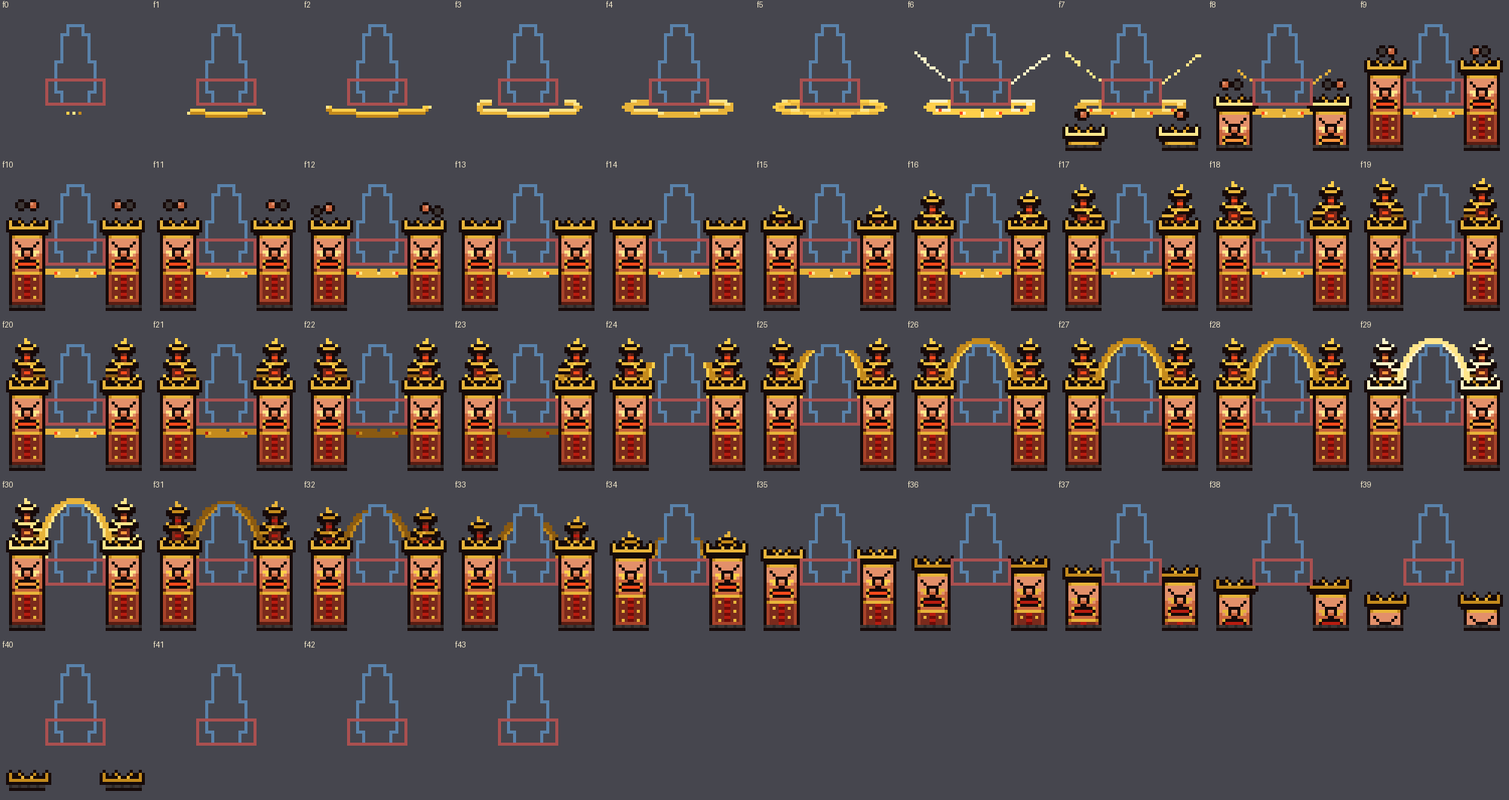
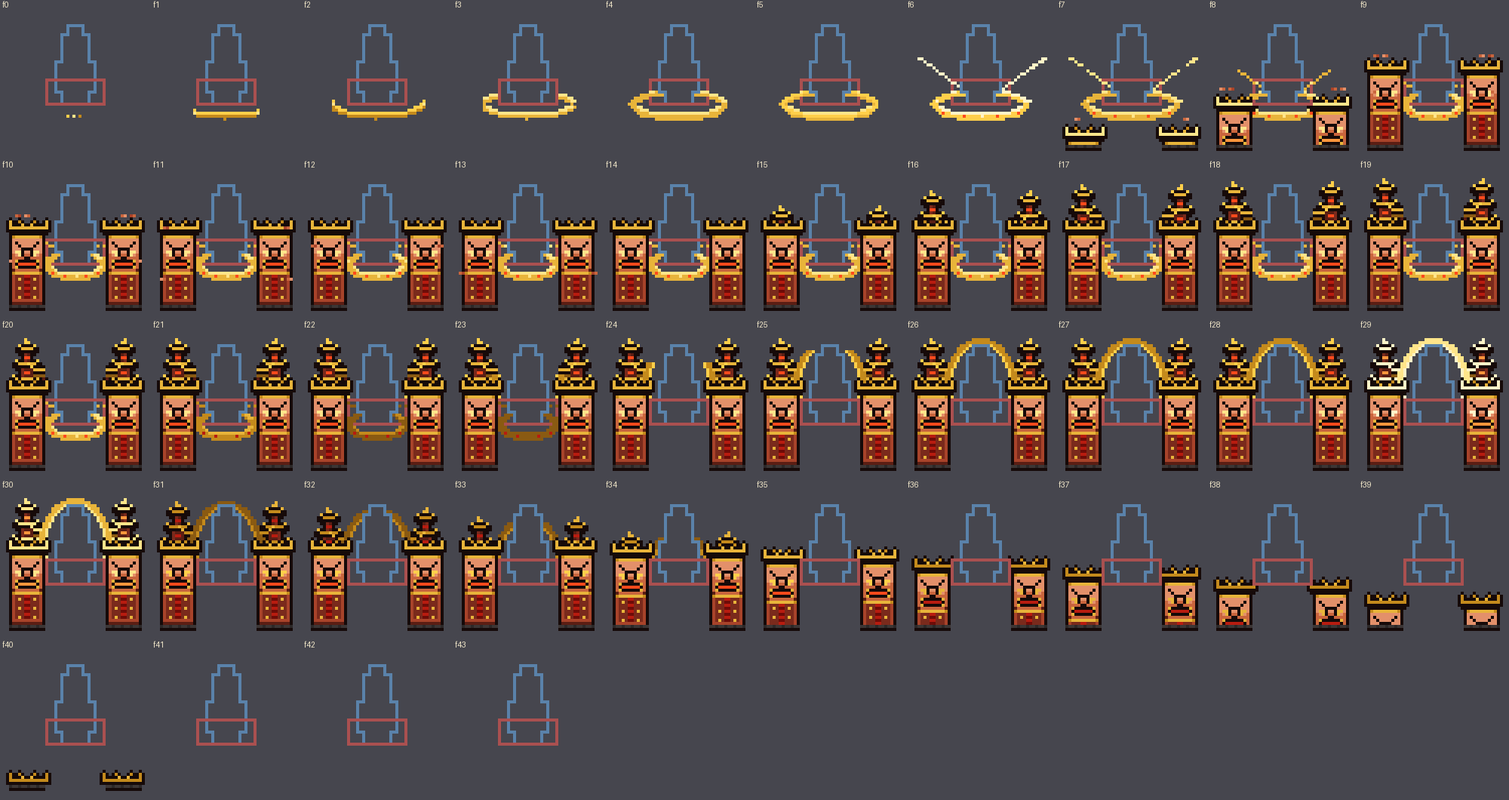
art: Subaku Palace gates v6: sigil as a real ground ring, falling sandstone shards, TIMING.md v5
QA r3 on eb17ebc0:
- Sigil: a bevelled ground ellipse 30 x 8 px round the caster's feet (0-0.4 h above the hex bottom),
  hidden only behind the legs; drawn in to 18 x 8 by the gates' heaves so it stays a whole ring
  between them through tick 20; cools 21-23, out from 24.
- Chips: 2 x 1 px sandstone shards, no outline, knocked off each gate top and falling.
- JSON cites TIMING.md v5 (ring 1 on 7, held beat 29-30 unchanged).
- The sigil ring now crosses the lower neighbour's meter rows (ticks 4-23, up to 16.1 %); gates,
  palace and shards stay gated at 0 % on them. Reported in sbk_gates_v6.json, README, design doc.
v5 export removed; filename bumped to v6. artpreflight: 0 errors, 0 warnings. Live-game requests: 0.

Claude-Session: https://claude.ai/code/session_01Xibngekrh25gkZxxmbSp7p

diff --git a/art/subaku_palace/gates/build_gates.py b/art/subaku_palace/gates/build_gates.py
@@ -3,18 +3,18 @@
 
     python3 art/subaku_palace/gates/build_gates.py [--out DIR] [--sheet PNG]
 
-SHIPPING BUILD. Target geometry (art/subaku_palace/TIMING.md v4, director 2026-11-05): effect clips 2.5 hex heights
+SHIPPING BUILD. Target geometry (art/subaku_palace/TIMING.md v5, director 2026-11-05): effect clips 2.5 hex heights
 square (the ratio-1 change 338126cb is to be reverted upstream), players drawn as LPC character avatars. The ratio-1
 note build is build_gates_ratio1.py.
 
-One asset, the appear on the SELF tag (increasedamagegiven): anim_sbk_gates_rise_v5, 44 frames x 50 ms. No static
+One asset, the appear on the SELF tag (increasedamagegiven): anim_sbk_gates_rise_v6, 44 frames x 50 ms. No static
 loop, no dais (director: the sigil is symbolic and fades within the cast).
 
-- 0-5    the sigil burns into the ground at the caster's feet: a spark, two arcs sweeping round to close a flat
-         bevelled ring (0.05-0.25 h above the hex bottom), then the inner ring and cracks, and a swell.
+- 0-5    the sigil burns into the ground round the caster's feet: a spark, two arcs sweeping round to close a
+         bevelled ring 30 x 8 px (0-0.4 h above the hex bottom), then ember cracks and a swell.
 - 6      its bands flash white-hot to the hex's edge midpoints and run past them: the energy leaves the hex.
-- 7-9    ring 1 ignites: two red sandstone oni gates tear up in three heaves (25 %, 60 %, 100 %), a burst of stone
-         chips off each top. Flared roofs with upturned eaves, a horn-crested lintel, a two-tone snarling face
+- 7-9    ring 1 ignites: two red sandstone oni gates tear up in three heaves (25 %, 60 %, 100 %), 2 px sandstone
+         shards knocked off each top and falling; the ring draws in to 18 x 8 px to stay whole between them. Flared roofs with upturned eaves, a horn-crested lintel, a two-tone snarling face
          (10 x 11) with burning eyes.
 - 14-20  as the bloom spreads, the palace rises behind them: two three-tier pagoda towers and roof wings.
 - 21-23  the sigil cools to demon gold; out from 24.
@@ -29,7 +29,8 @@ centred 0.825 h above the hex bottom; a typical body, mapped by LPC rows, spans 
 (headgear) to 31 (feet at y 30.3). Keep-clear zones, gated at 0 % on every frame:
 - ENVELOPE  the caster's body: nothing is drawn over it (the sigil and palace pass behind it).
 - METERS    the lower neighbour's HP/SP/CP rows, which fall inside this clip at 0.2-0.6 h above this hex's bottom
-            (x 15-34, y 23-31).
+            (x 15-34, y 23-31), for everything but the sigil. The sigil ring (QA r3) is masked only by ENVELOPE;
+            its cover of these rows is reported in the JSON.
 The caster's own meters (x 15-34, y 3-11) are reported, not gated: the moon-gate arch's top crosses them on ticks
 24-33 (director, 2026-11-05: keep the arch). They are ALWAYS visible to the casting player: combat.ts:420 passes the
 viewer's own userId as selectedId, and combatActors.ts:516-520 shows a fighter's meters when it is selected or
@@ -54,9 +55,9 @@ SCALE = 3
 MS = 50
 MAX_BYTES = 460800
 SAFE_EDGE = 2
-VER = "v5"
+VER = "v6"
 
-# ------------------------------------------------------------------------------------------------ timing (TIMING.md v4)
+# ------------------------------------------------------------------------------------------------ timing (TIMING.md v5)
 RING1 = 7               # ring 1 ignites; the gates heave up 7-9
 SEAL_PEAK = 29          # the floor's final pulse peaks (white-hot channels)
 LEN = 44
@@ -71,13 +72,13 @@ PALACE_SINK = 6         # 31-36
 GATE_SINK_AT = 33
 GATE_SINK = 9           # 33-41; 42-43 empty
 
-# ------------------------------------------------------------------------------------------------ palette (TIMING.md v4)
+# ------------------------------------------------------------------------------------------------ palette (TIMING.md v5)
 SHADOW = (22, 10, 9)
 SS_D, SS_M, SS, SS_L, SS_HI = (90, 30, 20), (122, 42, 28), (168, 67, 42), (201, 101, 61), (227, 144, 106)
 G_DEEP, G_MID, G_BRI = (138, 90, 18), (196, 138, 28), (232, 180, 58)
 B1, B2, WHITE = (255, 207, 74), (255, 229, 138), (255, 244, 200)
 E0, E1, E2, E3 = (110, 12, 8), (184, 28, 16), (255, 74, 28), (255, 150, 60)
-ST, ST_L = (44, 40, 40), (60, 54, 53)                     # basalt (TIMING.md v4: #2c2828, #3c3635)
+ST, ST_L = (44, 40, 40), (60, 54, 53)                     # basalt (TIMING.md v5: #2c2828, #3c3635)
 PALETTE = {SHADOW, SS_D, SS_M, SS, SS_L, SS_HI, G_DEEP, G_MID, G_BRI, B1, B2, WHITE, E0, E1, E2, E3, ST, ST_L}
 
 CX, CY = 24.5, 25.0
@@ -239,25 +240,38 @@ def check(frames):
         raise SystemExit(f"white-hot on frames {hot}, allowed only {SPOKES} and {HOLD[0]}")
     if any(f.getchannel("A").getbbox() for f in frames[-2:]):
         raise SystemExit("the last two frames must be empty")
-    for name, m in (("the caster's LPC envelope", ENV), ("the lower neighbour's meters", METERS)):
-        c = coverage(frames, m)
-        if max(c) > 0:
-            raise SystemExit(f"{name} is {max(c):.1%} covered on frame {c.index(max(c))}")
+    c = coverage(frames, ENV)
+    if max(c) > 0:
+        raise SystemExit(f"the caster's LPC envelope is {max(c):.1%} covered on frame {c.index(max(c))}")
+    c = coverage(rise(with_sigil=False), METERS)                # gates, palace, chips: never on the lower meters
+    if max(c) > 0:
+        raise SystemExit(f"the lower neighbour's meters are {max(c):.1%} covered on frame {c.index(max(c))}")
 
 
 # ------------------------------------------------------------------------------------------------ the sigil
-# A flat ring burned into the ground at the caster's feet: 0.05-0.25 h above the hex bottom (y 30-34). Its back half
-# passes behind the legs and under the lower neighbour's meter rows (both keep-clear), so what shows is the front arc
-# below the feet and the two flanks.
-SIG_C = (CX, 32.0)
-SIG_RX, SIG_RY = 17.0, 2.2
+# A ring burned into the ground round the caster's feet, 30 x 8 px (x 10-39, y 27-35; 0-0.4 h above the hex bottom),
+# drawn in to 18 x 8 (x 16-33) by the gates' heaves so it stays whole between them.
+# Only the stretch of its back arc behind the legs is hidden (the LPC envelope). Once the gates stand, their slabs
+# cover the ring's two ends, so it reads as a ring between them. QA 2026-11-06 (r3): the sigil may pass under the
+# lower neighbour's meter rows; everything else stays gated off them (reported in the JSON).
+SIG_C = (CX, 31.0)
+SIG_RX, SIG_RY = 15.0, 4.0
+SIG_RX_TIGHT = 9.0                   # from tick 9 the ring has drawn in between the standing gates (x 16-33)
+
+
+def sig_rx(i):
+    """30 px wide while it builds (0-7), drawn in by the gates' heaves (8: 12 px half-width, 9 on: 9)."""
+    return SIG_RX if i <= RING1 else (12.0 if i == RING1 + 1 else SIG_RX_TIGHT)
+
+
+_RX = [SIG_RX]                       # the half-width for the frame being drawn (set in sigil())
 SIG_OUT = SIG_COOL_AT + 3            # gone from tick 24: the sigil fades within the cast
 SPOKE_EDGES = [(10, 30), (40, 30), (25, 35), (10, 20), (40, 20)]   # the top midpoint lies behind the head
 
 
 def ell(r, deg):
     a = math.radians(deg)
-    return SIG_C[0] + SIG_RX * r * math.cos(a), SIG_C[1] + SIG_RY * r * math.sin(a)
+    return SIG_C[0] + _RX[0] * r * math.cos(a), SIG_C[1] + SIG_RY * r * math.sin(a)
 
 
 def sigil_cols(i):
@@ -272,7 +286,7 @@ def sigil_cols(i):
 
 def spoke_pts(edge, start, end, n=10):
     ex, ey = edge
-    sx, sy = ell(1.0, math.degrees(math.atan2((ey - SIG_C[1]) / SIG_RY, (ex - SIG_C[0]) / SIG_RX)))
+    sx, sy = ell(1.0, math.degrees(math.atan2((ey - SIG_C[1]) / SIG_RY, (ex - SIG_C[0]) / _RX[0])))
     return [(sx + (ex - sx) * (start + (end - start) * s / n), sy + (ey - sy) * (start + (end - start) * s / n))
             for s in range(n + 1)]
 
@@ -283,6 +297,7 @@ def sigil(i):
     white-hot out to the hex's edge midpoints and past them. Then a steady ring with pulses running out along the
     bands, white-hot on the seal peak, cooling 22-24, out at 25."""
     f = frame()
+    _RX[0] = sig_rx(i)
     cols = sigil_cols(i)
     if cols is None:
         return f
@@ -290,7 +305,7 @@ def sigil(i):
     if i == 0:
         for dx, c in ((0, B2), (-1, B2), (1, B1), (-2, B1), (2, G_MID)):
             px(f, SIG_C[0] + dx, SIG_C[1] + SIG_RY, c)
-        return clear_mask(f, KEEP)
+        return clear_mask(f, ENV)
     sweep = 180 * clamp01(i / 4)                        # degrees each way from the front (90 deg = front centre)
     for d in range(0, 361, 2):
         off = min(abs(d - 90), 360 - abs(d - 90))
@@ -300,19 +315,16 @@ def sigil(i):
         px(f, x, y - 0.5, top)
         px(f, x, y + 0.5, body)
         if i >= 4:                                      # the band thickens outward as it closes
-            px(f, x + (1 if math.cos(math.radians(d)) > 0.3 else -1 if math.cos(math.radians(d)) < -0.3 else 0),
-               y, body)
+            ox, oy = math.cos(math.radians(d)), math.sin(math.radians(d))
+            px(f, x + (1 if ox > 0.5 else -1 if ox < -0.5 else 0), y + (1 if oy > 0.5 else 0), body)
     if i in (1, 2, 3):                                  # the arcs' heads
         for d in (90 - sweep, 90 + sweep):
             x, y = ell(1.0, d)
             px(f, x, y, B2)
-    if i >= 5:                                          # the inner ring and the ember cracks between the rings
-        for d in range(0, 360, 6):
-            x, y = ell(0.62, d)
-            px(f, x, y, body)
-        for d in (20, 160, 60, 120):
-            x, y = ell(0.82, d)
-            px(f, x, y, E2 if i < SIG_COOL_AT else E1)
+    if i >= 5:                                          # ember cracks in the band's front
+        for d in (35, 145, 70, 110):
+            x, y = ell(1.0, d)
+            px(f, x, y + 0.5, E2 if i < SIG_COOL_AT else E1)
     if i == 5:                                          # the swell before the release
         for d in range(0, 360, 4):
             x, y = ell(1.06, d)
@@ -331,7 +343,7 @@ def sigil(i):
             pts = spoke_pts(e, 0.0, 1.0)
             x, y = pts[((i - SPOKES) * 2) % len(pts)]
             px(f, x, y, B2)
-    return clear_mask(f, KEEP)
+    return clear_mask(f, ENV)
 
 
 # ------------------------------------------------------------------------------------------------ the gates
@@ -431,31 +443,29 @@ def torn_ground(i):
 
 
 def chips(i):
-    """Stone chips burst off each gate's top as it heaves up (7, 8, 9): up and back down within 4 ticks, in the open
-    air above the gate (the gate fills the strip between the frame margin and the caster)."""
+    """Sandstone shards (2 x 1 px, no outline) knocked off each gate's top as it heaves up (7, 8, 9): a short hop,
+    then they fall past the gate's flank within 4 ticks."""
     f = frame()
     rnd = random.Random(3)
     for k in range(6):
         born = k % 3
-        vx = rnd.uniform(-0.9, 0.9)                     # drawn before any skip: each chip keeps its own path
-        vy = rnd.uniform(-3.4, -2.6)
-        x0 = rnd.uniform(5, 11)
+        vx = rnd.uniform(-0.8, -0.2)                    # outward, drawn before any skip: each shard keeps its path
+        vy = rnd.uniform(-1.6, -0.8)
+        x0 = rnd.uniform(4, 9)
         tt = i - RING1 - born
-        if not 0 <= tt < 4:
+        if not 0 <= tt < 5:
             continue
         top = GATE_BASE - GH * RISE_STAGES[born]
         x = x0 + vx * tt
-        y = top - 4 + vy * tt + 0.9 * tt * tt
-        now_top = GATE_BASE - GH * gate_up(i)           # stay above the gate as it keeps rising
-        if not (SAFE_EDGE + 1 <= x <= 15 and SAFE_EDGE + 1 <= y <= now_top - 3):
+        y = top - 2 + vy * tt + 1.4 * tt * tt
+        now_top = GATE_BASE - GH * gate_up(i)
+        if x < SAFE_EDGE or y < SAFE_EDGE or y > GATE_BASE - 1:
             continue
-        n = frame()
-        c = SS_L if k % 2 else ST_L
-        for dx, dy in ((0, 0), (1, 0), (0, 1), (1, 1)):
-            px(n, x + dx, y + dy, c)
-        px(n, x, y, SS_HI if k % 2 else ST_L)
-        outline_alpha(n)
-        f.alpha_composite(n)
+        if y >= now_top - 1 and x >= GATE_X + 1:        # in front of the gate's face: skip (it reads as a hole)
+            continue
+        c1, c2 = (SS_HI, SS_L) if k % 2 else (SS_L, SS)
+        px(f, x, y, c1)
+        px(f, x + 1, y, c2)
     return clear_mask(mirrored(f), KEEP)
 
 
@@ -552,16 +562,17 @@ def palace_layer(i):
 
 
 # ------------------------------------------------------------------------------------------------ assets
-def rise():
+def rise(with_sigil=True):
     fr = []
     for i in range(LEN):
         f = frame()
-        f.alpha_composite(sigil(i))
+        if with_sigil:
+            f.alpha_composite(sigil(i))
         f.alpha_composite(palace_layer(i))
         f.alpha_composite(torn_ground(i))
         f.alpha_composite(gates_layer(i))
         f.alpha_composite(chips(i))
-        fr.append(clear_mask(f, KEEP))
+        fr.append(clear_mask(f, ENV) if with_sigil else clear_mask(f, KEEP))
     return fr
 
 
@@ -570,6 +581,7 @@ def export(out_dir, sheet=None):
     r = rise()
     check(r)
     own = coverage(r, own_meters_mask())
+    lower = coverage(r, METERS)                                 # the sigil alone (QA r3)
     name = f"anim_sbk_gates_rise_{VER}.webp"
     p = os.path.join(out_dir, name)
     strip(r).save(p, lossless=True, quality=100, method=6)
@@ -579,13 +591,16 @@ def export(out_dir, sheet=None):
            "bytes": size,
            "slot": "appearAnimation on the SELF increasedamagegiven effect; no staticAnimation, no staticAssetPath",
            "geometry": "clip 2.5 hex heights (EFFECT_ANIMATION_HEX_RATIO 2.5); caster an LPC character avatar",
-           "lpc_envelope_cover_max": 0.0, "lower_neighbour_meters_cover_max": 0.0,
+           "lpc_envelope_cover_max": 0.0,
+           "lower_neighbour_meters_cover_max_sigil_only": max(lower),
+           "lower_neighbour_meters_cover_frames": [k for k, v in enumerate(lower) if v],
            "own_meters_cover_max": max(own), "own_meters_cover_frames": [k for k, v in enumerate(own) if v]}
     with open(os.path.join(out_dir, f"sbk_gates_{VER}.json"), "w") as fh:
-        json.dump({"source": "art/subaku_palace/gates/build_gates.py", "timing": "art/subaku_palace/TIMING.md v4",
+        json.dump({"source": "art/subaku_palace/gates/build_gates.py", "timing": "art/subaku_palace/TIMING.md v5",
                    "ring1": RING1, "seal_peak": SEAL_PEAK, "assets": [row]}, fh, indent=1)
         fh.write("\n")
-    print(row["file"], len(r), size, "own meters cover max", max(own))
+    print(row["file"], len(r), size, "own meters cover max", max(own), "lower meters (sigil) max", max(lower),
+          [k for k, v in enumerate(lower) if v])
     if sheet:
         raw_sheet(r, sheet)
 

diff --git a/art/subaku_palace/preview.py b/art/subaku_palace/preview.py
@@ -148,7 +148,7 @@ def main():
                 waves.append((c, fr))
     domain = cells_in(4, CASTER)
     # the centre half (gates agent, art/subaku_palace/gates): all on the SELF increasedamagegiven record
-    gname = os.environ.get('SBK_GATES_STRIP', 'anim_sbk_gates_rise_v5.webp' if BD.RATIO > 1.5 else 'anim_sbk_gates_rise_v3.webp')
+    gname = os.environ.get('SBK_GATES_STRIP', 'anim_sbk_gates_rise_v6.webp' if BD.RATIO > 1.5 else 'anim_sbk_gates_rise_v3.webp')
     gates = load_clip(gname, GATES) if '--no-gates' not in ARGS else None
     # director 2026-11-05: no lingering buff animation and no dais (the sigil is symbolic and fades after round one)
     master = load_clip('anim_sbk_master_loop_v2.webp', GATES) if '--master' in ARGS else None

diff --git a/art/subaku_palace/gates/README.md b/art/subaku_palace/gates/README.md
@@ -2,29 +2,29 @@
 
 Jutsu: Subaku Palace `jELEiw5W3N4m2R3oJm3Pk` (player EVENT, AOE_SPIRAL_SHOOT, range 4). SELF +30% damage given for
 2 rounds; ground: enemies -15% damage given for 3 rounds. The domain floor is the other half (`art/subaku_palace/`,
-whose `TIMING.md` v4 owns the shared clock, palette and target geometry). Design doc:
+whose `TIMING.md` v5 owns the shared clock, palette and target geometry). Design doc:
 `docs/design/SUBAKU_PALACE_ANIMATION.md`. Live-game requests: 0. No jutsu mechanics changed.
 
 ## What ships
 
 | File | Geometry | Frames x ms | Bytes | Build |
 |---|---|---|---|---|
-| `exports/anim_sbk_gates_rise_v5.webp` | **shipping**: clip 2.5 hex heights, players as LPC character avatars (TIMING.md v4) | 44 x 50 | 3,858 | `build_gates.py` |
+| `exports/anim_sbk_gates_rise_v6.webp` | **shipping**: clip 2.5 hex heights, players as LPC character avatars (TIMING.md v5) | 44 x 50 | 4,304 | `build_gates.py` |
 | `exports/anim_sbk_gates_rise_v3.webp` | note only: clip 1 hex height (338126cb, which the director expects to be reverted) | 38 x 50 | 3,930 | `build_gates_ratio1.py` |
 
 Slot: `appearAnimation` on the existing SELF `increasedamagegiven` effect. `staticAnimation` and `staticAssetPath`
 stay empty. Director, 2026-11-05: the sigil is symbolic and fades within the cast; there is no dais and no buff loop.
 
-Superseded and deleted (in git history): v2, gated against the old portrait disc (012a7890), and v4, before the
-QA round on the sigil and the slow bloom (81f4bd93). Each change takes a new filename so no cached copy is served.
+Superseded and deleted (in git history): v2, gated against the old portrait disc (012a7890); v4, before the
+QA round on the sigil and the slow bloom (81f4bd93); v5, the flat-plank sigil and dark chips (eb17ebc0). Each change takes a new filename so no cached copy is served.
 
-## The beat (TIMING.md v4: ring 1 ignites on 7, the floor's final pulse peaks on 29)
+## The beat (TIMING.md v5: ring 1 ignites on 7, the floor's final pulse peaks on 29)
 
 | Ticks | Centre |
 |---|---|
-| 0-5 | The sigil burns into the ground at the caster's feet: a spark in front of them, two arcs sweeping round to close a flat bevelled ring 0.05-0.25 h above the hex bottom (its back half passes behind the legs), then the inner ring and ember cracks, and a swell. |
+| 0-5 | The sigil burns into the ground round the caster's feet: a spark in front of them, two arcs sweeping round to close a bevelled ring 30 x 8 px (0-0.4 h above the hex bottom; only the stretch of its back arc behind the legs is hidden), then ember cracks and a swell. |
 | 6 | The bands flash white-hot to the hex's edge midpoints and run past them. |
-| 7-9 | Ring 1 ignites. Two red sandstone oni gates tear up on either side of the caster in three heaves (25 %, 60 %, 100 %), a burst of stone chips off each top. Flared roofs with upturned eaves, a horn-crested lintel, a two-tone snarling face (10 x 11 px: light plate, dark V brows and maw, bright eyes, gold fangs, ember throat). |
+| 7-9 | Ring 1 ignites. Two red sandstone oni gates tear up on either side of the caster in three heaves (25 %, 60 %, 100 %), 2 px sandstone shards knocked off each top and falling. The ring draws in to 18 x 8 px (8-9), so it stays whole between the standing gates through tick 20. Flared roofs with upturned eaves, a horn-crested lintel, a two-tone snarling face (10 x 11 px: light plate, dark V brows and maw, bright eyes, gold fangs, ember throat). |
 | 14-20 | As the bloom spreads, the palace rises behind them: two three-tier pagoda towers. |
 | 21-23 | The sigil cools to demon gold; it is out from 24 (director: it fades within the cast). |
 | 22-26 | The solid two-tone demon-gold moon-gate arch traces up round the caster as the bloom reaches the rim. |
@@ -42,13 +42,17 @@ Gated at 0% on every frame (`build_gates.py` exits otherwise):
 - **The caster's LPC envelope:** crown x 22-27 y 5-7, head x 20-29 y 8-17, torso and arms x 18-31 y 17-27, legs x 20-29
   y 27-31. It is the union of real LPC rows and the QA harness's LPC stand-in. The sigil's back arc and the palace
   pass behind the figure; nothing draws over it.
-- **The lower neighbour's HP/SP/CP rows:** they fall inside this clip at 0.2-0.6 h above this hex's bottom (x 15-34,
-  y 23-31). The sigil lies below them, in front of the feet (y 30-34); its middle passes under them, hidden.
+- **The lower neighbour's HP/SP/CP rows**, for everything except the sigil: they fall inside this clip at 0.2-0.6 h above
+  this hex's bottom (x 15-34, y 23-31). The gates, palace and shards never touch them.
+
+Reported, not gated (QA r3, 2026-11-06: the sigil is a real ground ring, hidden only behind the legs): the sigil's
+back arc and flanks cross the lower neighbour's meter rows on ticks 4-23, up to 16.1 % of the rows. A neighbour's
+rows are always visible when that neighbour is the viewer's own character (see the correction below).
 
 **Accepted exception (director, 2026-11-05: "keep the arch"):** the caster's own meter rows (x 15-34, y 3-11). Only
 the moon-gate arch's top crosses them, on ticks 24-33 (the roof wings sit below the rows). The build's rectangle gives
-up to 33.3 % of the rows; the reviewer's renderer measured 40 % on v4 and should re-measure v5. It is reported in
-`sbk_gates_v5.json`, not gated.
+up to 33.3 % of the rows; the reviewer's renderer measured 40 % on v4 and should re-measure v6. It is reported in
+`sbk_gates_v6.json`, not gated.
 
 Correction to the premise: these rows are **always visible to the casting player**, not only on hover or selection.
 theninjarpg cb755375 `combat.ts:420` passes the viewer's own userId as `selectedId`, and `combatActors.ts:516-520`
@@ -60,7 +64,7 @@ margin.
 
 ## Other checks
 
-- Every opaque pixel is in the TIMING.md v4 palette. Alpha is hard.
+- Every opaque pixel is in the TIMING.md v5 palette. Alpha is hard.
 - White-hot appears on ticks 6 and 29 only.
 - There are no ember specks or dashes at the gates' feet; the torn lip is basalt only.
 - `artpreflight.py --type ANIMATION`: 0 errors, 0 warnings (`_provenance/`).

diff --git a/docs/design/SUBAKU_PALACE_ANIMATION.md b/docs/design/SUBAKU_PALACE_ANIMATION.md
@@ -29,7 +29,7 @@ Build target (director, 2026-11-05): 2.5-hex-height clips and LPC character avat
      lit rails drawn over it, and the trail fades out;
    - the last head reaches the rim on tick 27.
 3. **The gates (7-19).** Red sandstone oni gates tear out of the ground on ring 1, and the palace with its moon gate
-   rises behind the caster (centre strip, gates v5).
+   rises behind the caster (centre strip, gates v6).
 4. **The held beat (28-30).** The rim has formed. Every rail face in the domain burns solid at once, the channels
    white-hot on tick 29 (the seal, the ground appear), and the palace's held beat lands on 29-30.
 5. **The settle (31-43).** The gates sink; nothing on the floor animates after tick 30.
@@ -56,10 +56,12 @@ sprite and meter alpha), on both column parities with identical numbers:
 - frames with an enemy's body more than 25 % covered: ring 1 16-19 (0.8-0.95 s), ring 2 21 (LPC), AI originals on rings 2-3 24-26, and
   ring 4 29 (1.45 s, the maximum: its head stands in the outer neighbour, whose bloom passes last);
 - meter rows follow the same pass, 19-28 frames.
-The caster's own
-meter rows are crossed by the centre strip's moon-gate arch and nothing else: on ticks 24-33 in v5 (the roof wings now
+The centre strip's
+sigil ring (ticks 4-23) crosses the lower neighbour's meter rows, up to 16 % of them (QA r3: a real ground ring,
+hidden only behind the legs); its gates, palace and shards never do. The caster's own
+meter rows are crossed by the centre strip's moon-gate arch and nothing else: on ticks 24-33 in v6 (the roof wings now
 sit below the rows), up to 33 % of the rows by the build's rectangle (the reviewer's renderer measured 40 % on v4; to
-re-measure on v5). The director accepted this on 2026-11-05 ("keep the arch") on the understanding that those rows show
+re-measure on v6). The director accepted this on 2026-11-05 ("keep the arch") on the understanding that those rows show
 only on hover or selection. That holds for other viewers only: the casting player always sees their own rows
 (theninjarpg cb755375 `combat.ts:420` passes the viewer's userId as `selectedId`; `combatActors.ts:516-520`).
 
@@ -132,7 +134,7 @@ Asset library (RUL-2026-11-05-127): every upload goes in the folder **`Jutsu - S
 | `exports/anim_sbk_wave_b4_v1.webp` | `Subaku Palace: ring 3 wave` | ANIMATION | 36 x 50 | visual tag b4 |
 | `exports/anim_sbk_wave_b5_v1.webp` | `Subaku Palace: ring 3.5 wave` | ANIMATION | 36 x 50 | visual tag b5 |
 | `exports/anim_sbk_wave_b6_v1.webp` | `Subaku Palace: ring 4 wave` | ANIMATION | 36 x 50 | visual tag b6 |
-| `gates/exports/anim_sbk_gates_rise_v5.webp` (centre half; v2 and v4 superseded after QA) | `Subaku Palace: gates rise` | ANIMATION | 44 x 50 | SELF `increasedamagegiven`: `appearAnimation`; `appearSfx` Earth `XBlRonNjvwAZx1_HFpHdM` |
+| `gates/exports/anim_sbk_gates_rise_v6.webp` (centre half; v2, v4 and v5 superseded after QA) | `Subaku Palace: gates rise` | ANIMATION | 44 x 50 | SELF `increasedamagegiven`: `appearAnimation`; `appearSfx` Earth `XBlRonNjvwAZx1_HFpHdM` |
 
 The SELF `increasedamagegiven` effect's `staticAssetPath` and `staticAnimation` are **cleared** (no dais, no loop).
 The 7 band tags carry no sound and no static slots.

diff --git a/docs/handoffs/SUBAKU_PALACE_GATES_ART_REQUEST.md b/docs/handoffs/SUBAKU_PALACE_GATES_ART_REQUEST.md
@@ -2,7 +2,7 @@
 
 - **For:** the art director (Image Production)
 - **From:** Fable / Claude (2026-11-05)
-- **Status:** OPTIONAL. The programmatic strip ships now: `art/subaku_palace/gates/exports/anim_sbk_gates_rise_v5.webp` (2.5 hex-height clip, LPC caster; see the gates README). Painted gate, palace and sigil layers would be reduced to the same 50 px grid, keep-clear zones and beat.
+- **Status:** OPTIONAL. The programmatic strip ships now: `art/subaku_palace/gates/exports/anim_sbk_gates_rise_v6.webp` (2.5 hex-height clip, LPC caster; see the gates README). Painted gate, palace and sigil layers would be reduced to the same 50 px grid, keep-clear zones and beat.
 - **Jutsu:** Subaku Palace `jELEiw5W3N4m2R3oJm3Pk` (player EVENT). Battle text: "gates of red sandstone carved with snarling
   faces tear free of the ground, and the shadow of the demon palace falls across the field".
 - **Style references (attach, style only):** `art/subaku_palace/refs/ref_domain_tile_c_1254.png` (material: charcoal

diff --git a/art/subaku_palace/TIMING.md b/art/subaku_palace/TIMING.md
@@ -17,7 +17,7 @@ centre). The ratio-1 build is kept only as a note (design doc).
   edges in 8 ticks, so each ring ignites when the previous ring's head is halfway out and the blooms overlap into one
   front. Where the head passes the cover opens on the real tile; a 3-tick lit-rail trail follows.
 
-| Tick | Domain floor (`exports/`) | Centre (`gates/exports/anim_sbk_gates_rise_v5.webp`, SELF appear) |
+| Tick | Domain floor (`exports/`) | Centre (`gates/exports/anim_sbk_gates_rise_v6.webp`, SELF appear) |
 |---|---|---|
 | 0-6 | The domain is bare stone (no gold on the 56 band hexes). | The sigil kindles (0-5); its bands flash at the edge midpoints (6). |
 | **7** | **Ring 1 ignites** (band 1.0). | **Gates on ring 1 tear up.** |
